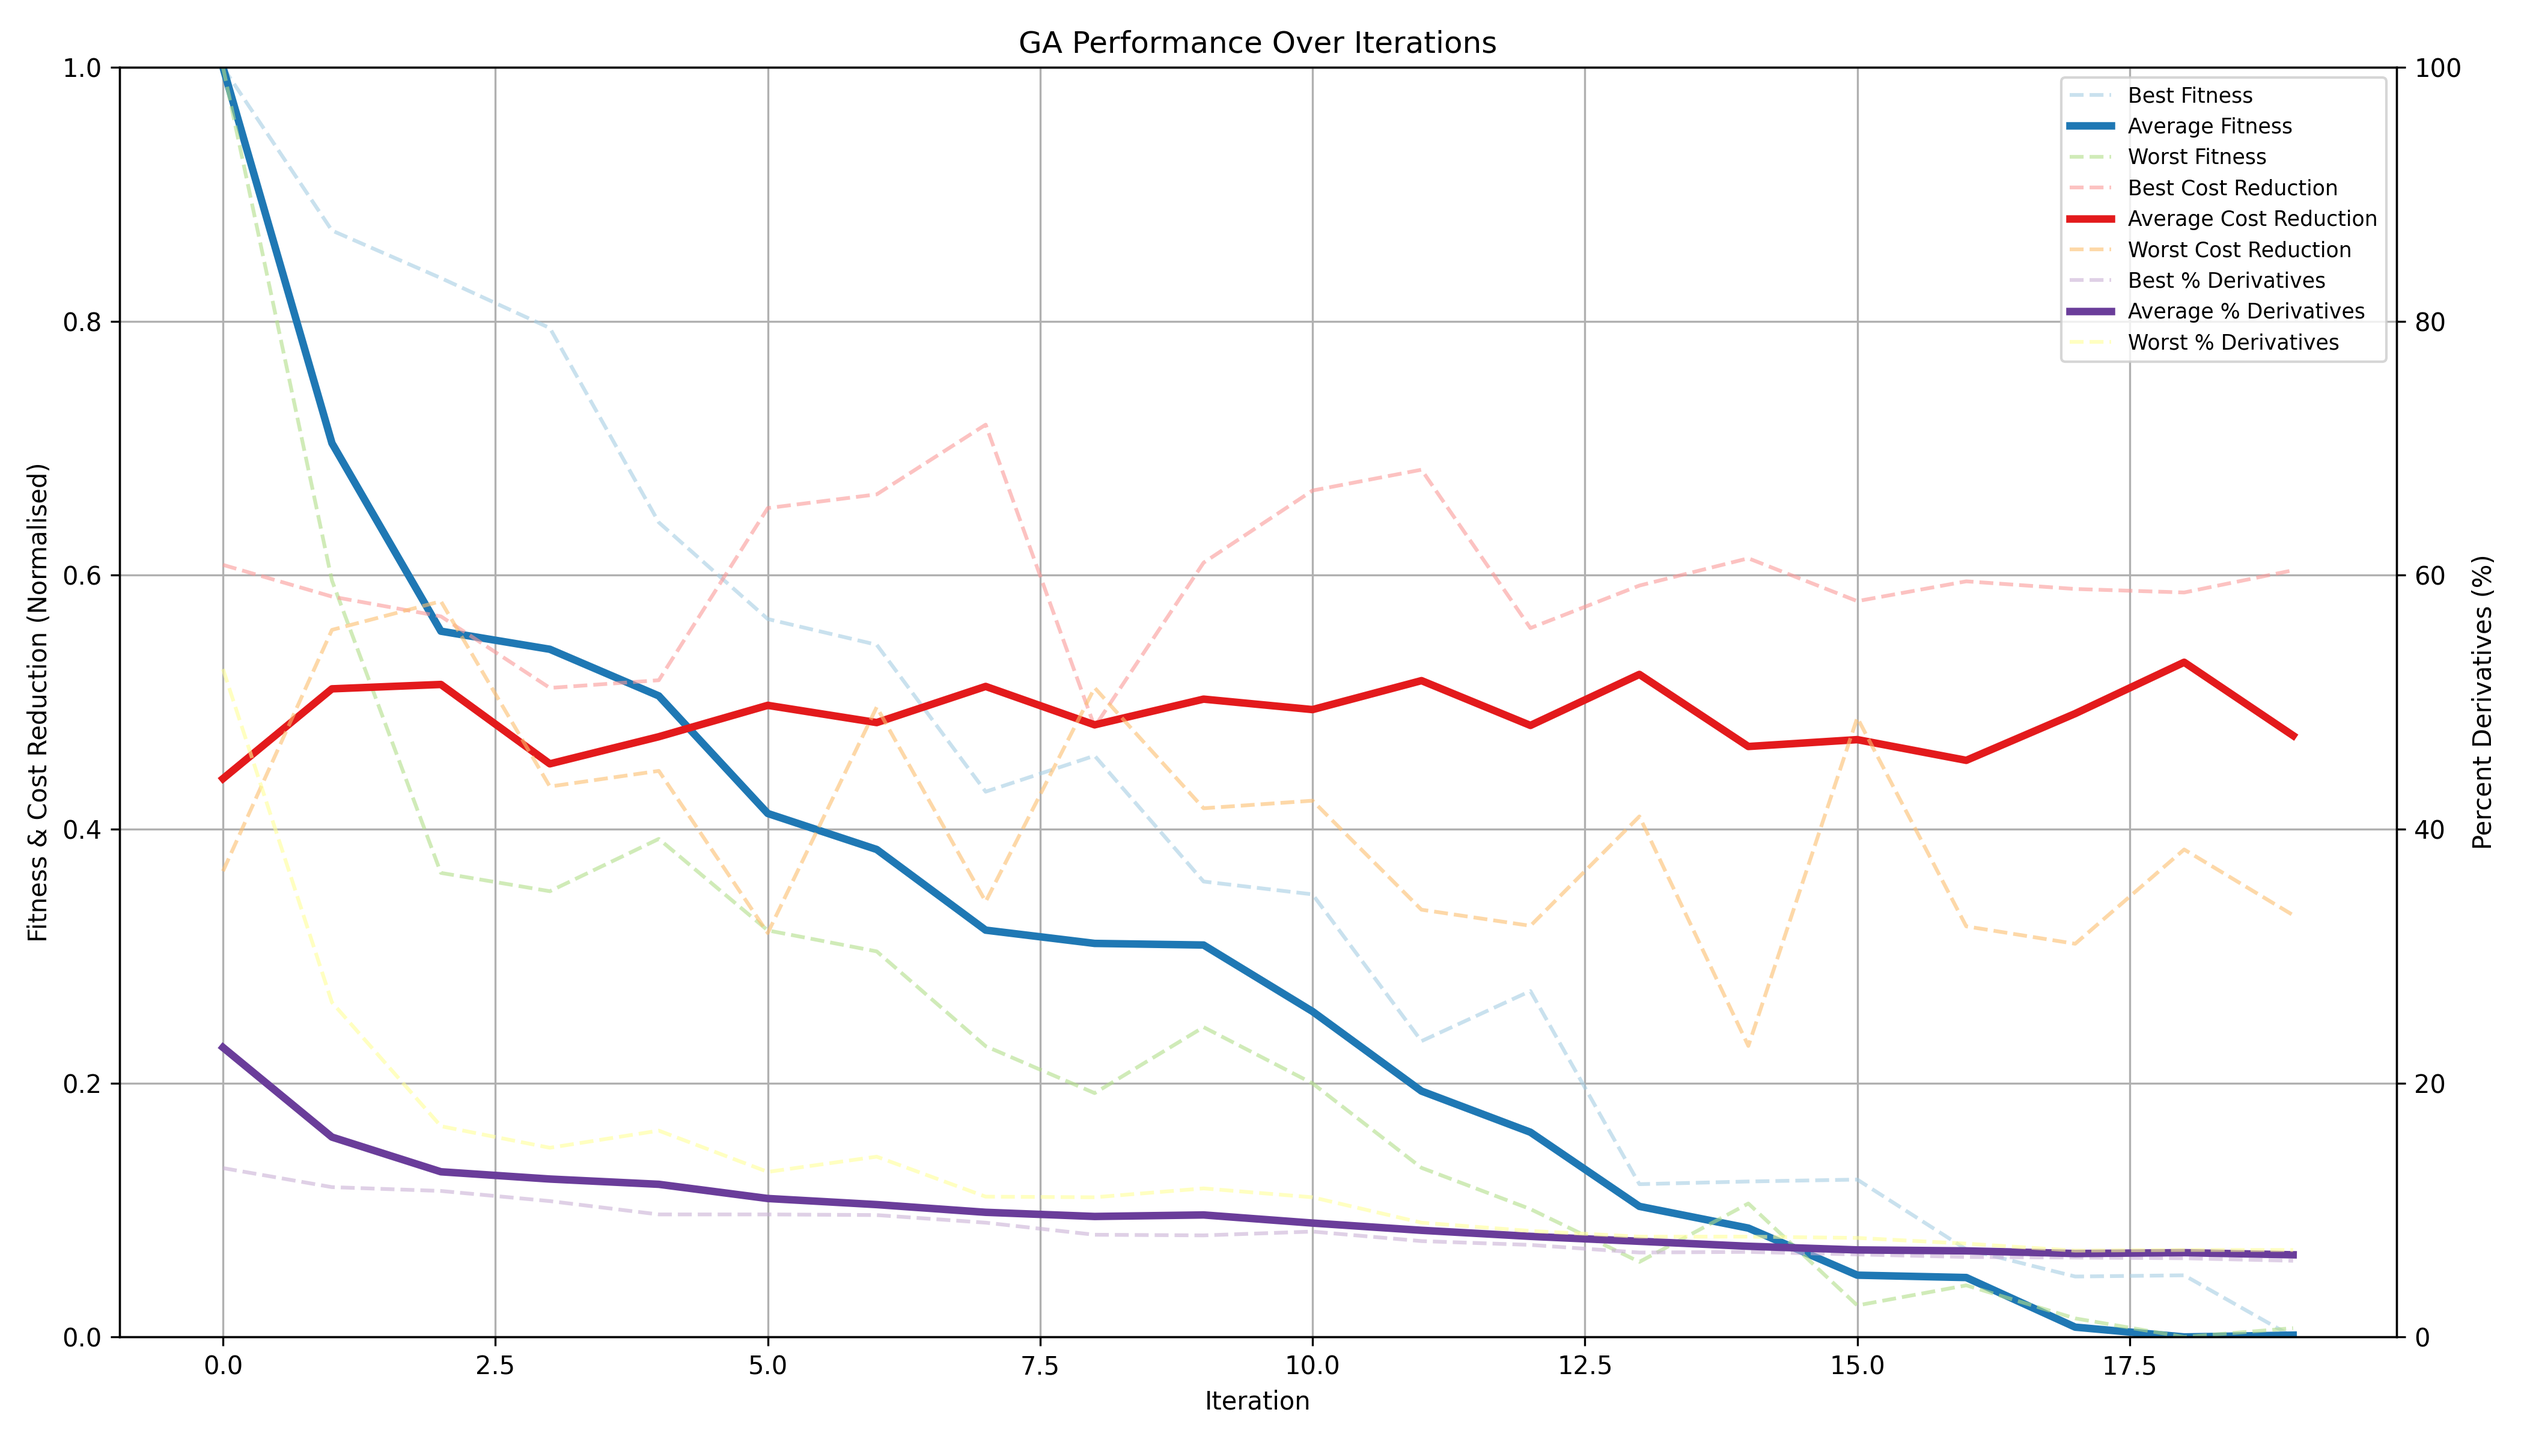
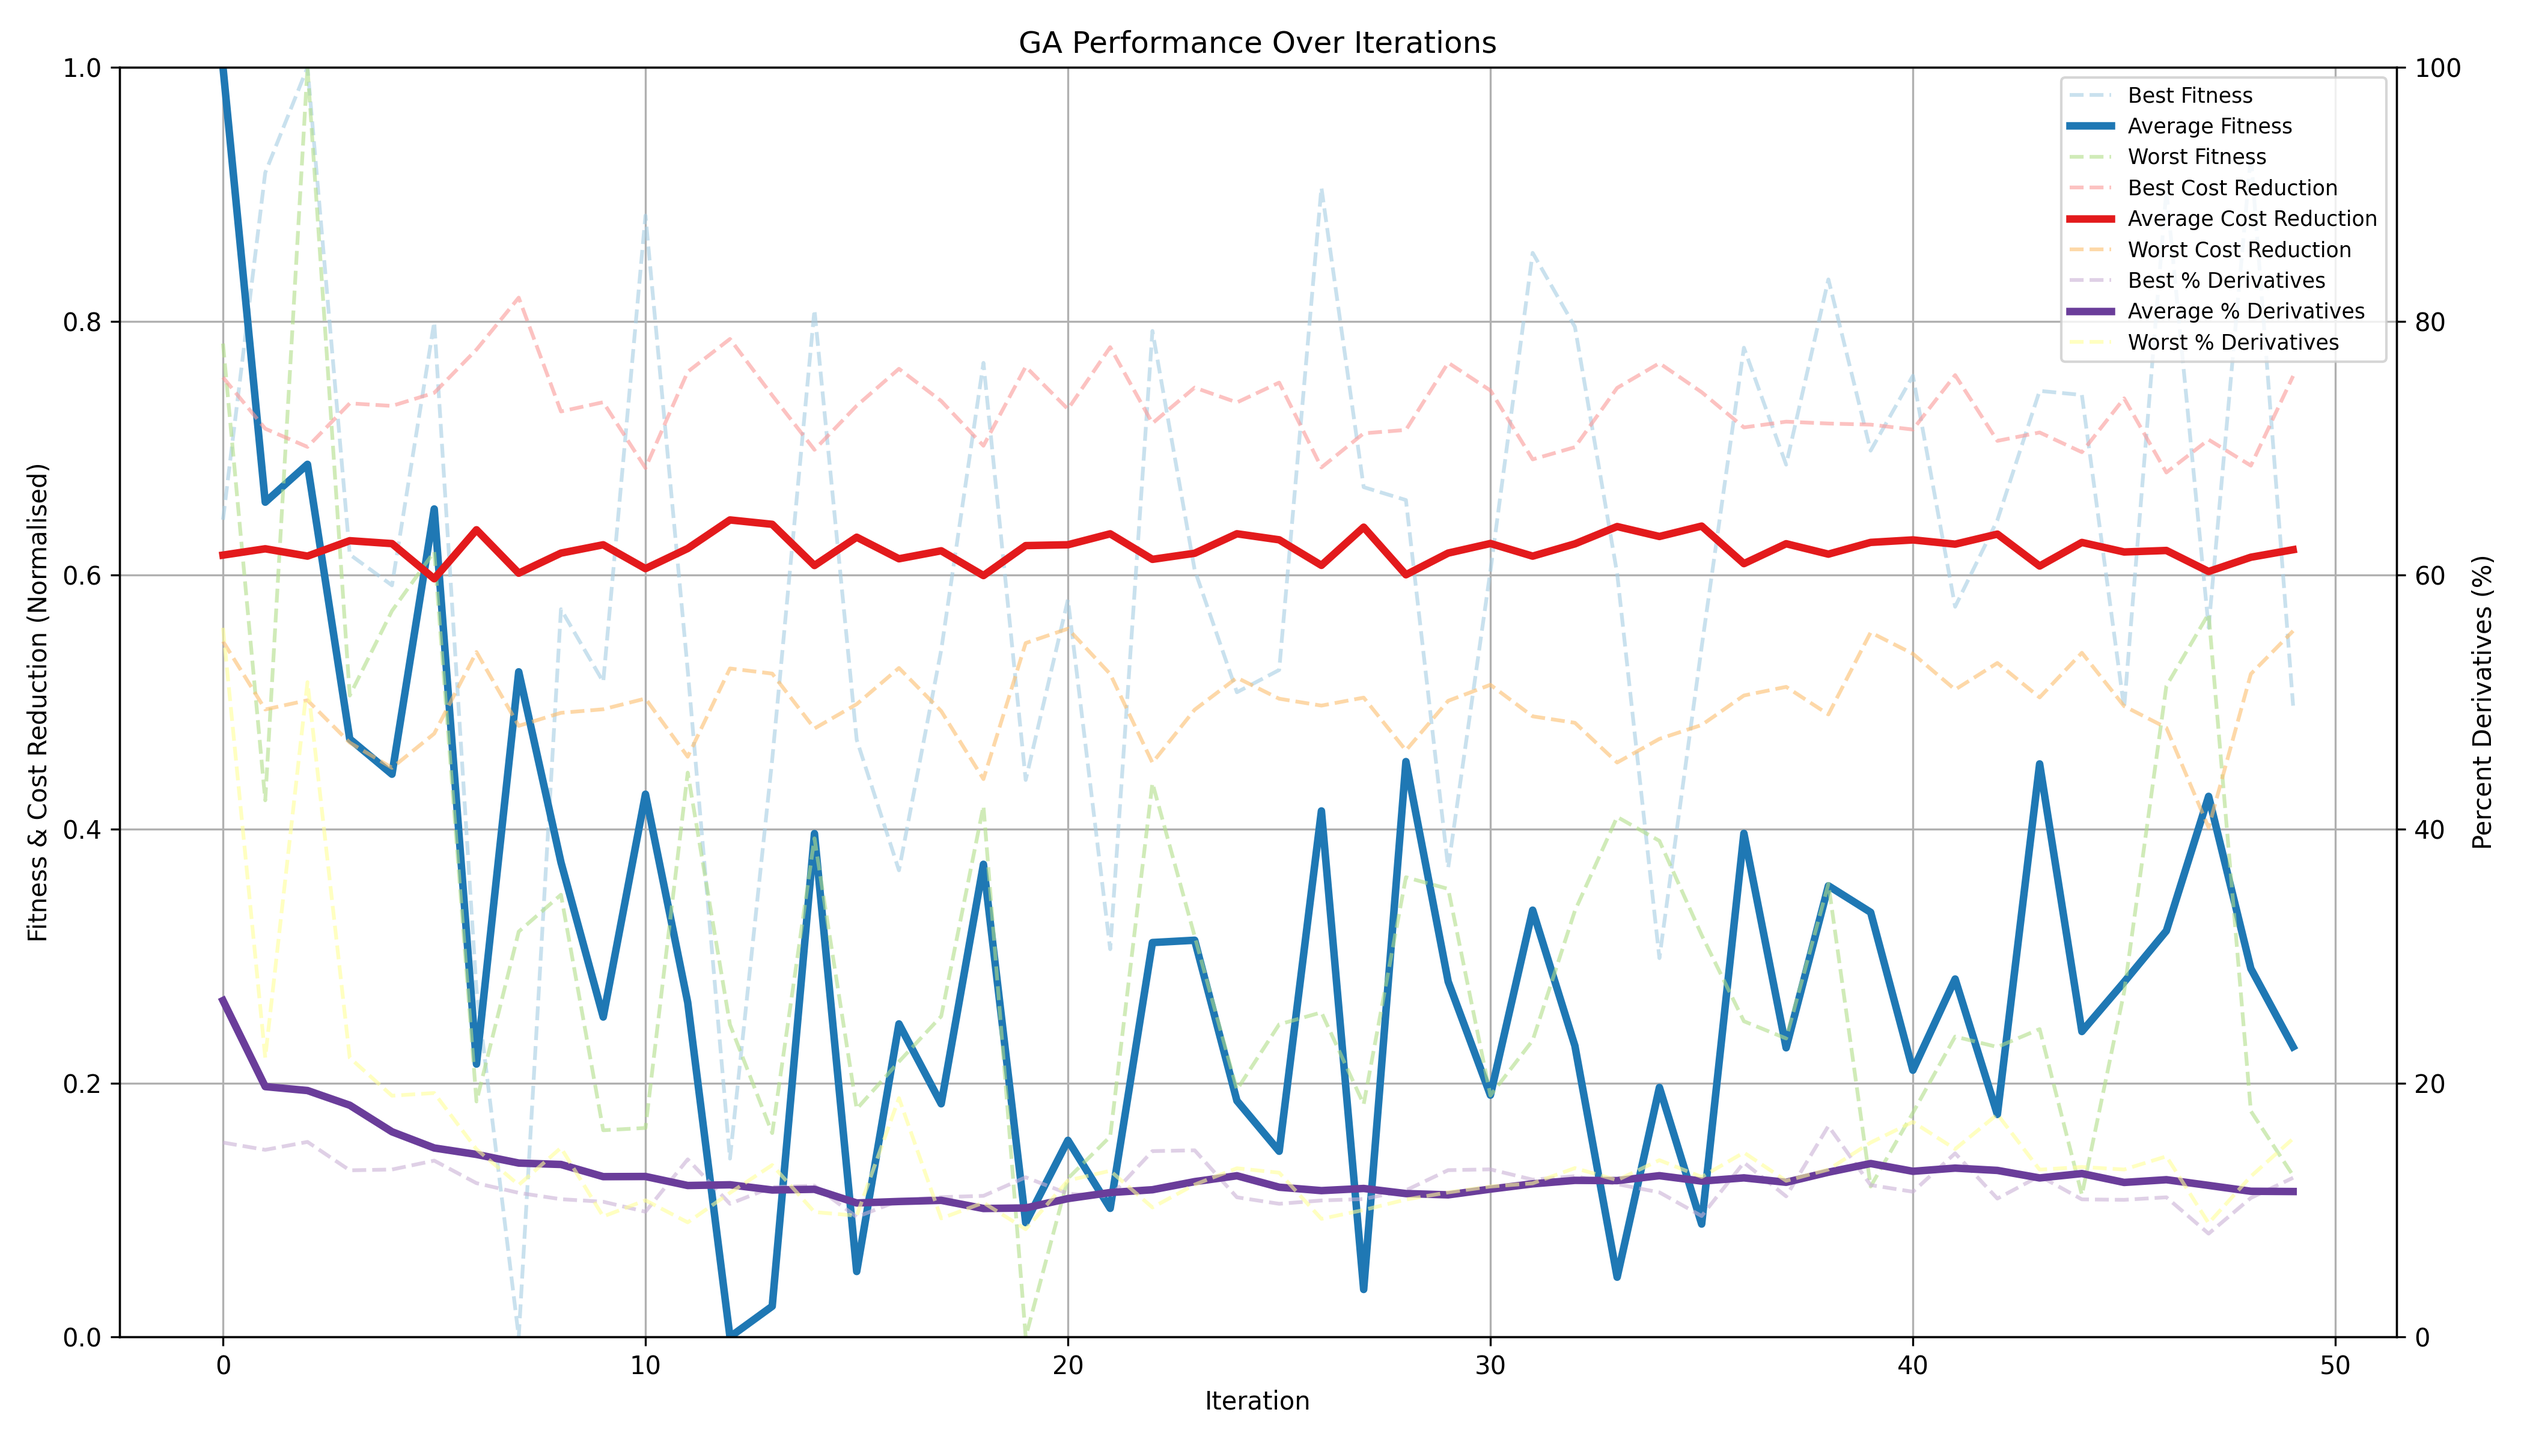
Small changes to GA, if anythign ive seemed to have made it worse

diff --git a/src/GAOptimalKeypoints.cpp b/src/GAOptimalKeypoints.cpp
@@ -15,16 +15,17 @@ GAOptimalKeypoints::GAOptimalKeypoints(std::shared_ptr<ModelTranslator> _model_t
 
 int GAOptimalKeypoints::Run(){
 
+    // Make sure population is even
+    if(population_size % 2 != 0){
+        population_size--;
+    }
+
     // Initialise data logging
     data_logging data;
 
     // Initialise Solutions
     vector<solution> solutions(population_size);
     RandomlyInitPopulation(solutions);
-
-//    vector<double> average_pop_fitness, best_pop_fitness, worst_pop_fitness;
-//    vector<double> average_pop_cost_reduction, best_pop_cost_reduction, worst_pop_cost_reduction;
-//    vector<double> average_pop_percent_derivs, best_pop_percent_derivs, worst_pop_percent_derivs;
 
     // Loop for a number of generations
     for(int i = 0; i < num_generations; i++){
@@ -67,18 +68,6 @@ int GAOptimalKeypoints::Run(){
                                         });
 
         int best_idx = std::distance(solutions.begin(), best_it);
-        // TODO enable elitism of arbritary number
-        new_solutions[0] = solutions[best_idx]; // Replace first genome with elite
-
-        // Add random survivors - Better for exploration
-        for (int k = 1; k < explorer_count+1; ++k) {
-            int idx = rand() % solutions.size();
-            new_solutions[k] = solutions[idx];
-        }
-
-        solutions = new_solutions;
-
-
 
         // ----------- Print best keypoint methods ------------------------
         keypoint_method genome_method;
@@ -92,6 +81,19 @@ int GAOptimalKeypoints::Run(){
         optimiser->keypoint_generator->SetKeypointMethod(genome_method);
         optimiser->keypoint_generator->PrintKeypointMethod();
         // -----------------------------------------------------------------
+
+
+        // TODO enable elitism of arbritary number
+        new_solutions[0] = solutions[best_idx]; // Replace first genome with elite
+
+        // Add random survivors - Better for exploration
+        for (int k = 1; k < explorer_count+1; ++k) {
+            int idx = rand() % solutions.size();
+            new_solutions[k] = solutions[idx];
+        }
+
+        solutions = std::move(new_solutions);
+//        solutions = new_solutions;
     }
 
     // ----------------------- Save data to file -------------------------------------
@@ -200,7 +202,7 @@ void GAOptimalKeypoints::UpdateDataLogging(data_logging& data, const vector<solu
 
     data.average_pop_percent_derivs.push_back(average_pd_population);
     data.best_pop_percent_derivs.push_back(average_percent_derivatives[best_idx]);
-    data.worst_pop_percent_derivs.push_back(average_percent_derivatives[best_idx]);
+    data.worst_pop_percent_derivs.push_back(average_percent_derivatives[worst_idx]);
 }
 
 void GAOptimalKeypoints::EvaluateKeypointMethodOverTasks(solution &solution){
@@ -228,12 +230,24 @@ void GAOptimalKeypoints::EvaluateKeypointMethodOverTasks(solution &solution){
         // Reset internal optimisation data and clear key-points cache
         optimiser->Reset();
         optimiser->keypoint_generator->ResetCache();
-        // Load start and desired state from csv file
+
+        // Load the task - use random function to prevent over-fitting
+        model_translator->GenerateRandomGoalAndStartState();
 
         // Load the task from CSV file
-        yamlReader->LoadTaskFromFile(model_translator->model_name,
-                                     i, model_translator->full_state_vector,
-                                     model_translator->residual_list);
+//        yamlReader->LoadTaskFromFile(model_translator->model_name,
+//                                     i, model_translator->full_state_vector,
+//                                     model_translator->residual_list);
+
+//        std::cout << model_translator->full_state_vector.robots[0].start_pos[0] << ", ";
+//        std::cout << model_translator->full_state_vector.robots[0].start_pos[1] << ", ";
+//        std::cout << std::endl;
+//        std::cout << model_translator->residual_list[0].target[0] << ", ";
+//        std::cout << model_translator->residual_list[1].target[0] << ", ";
+//        std::cout << model_translator->residual_list[2].target[0] << ", ";
+//        std::cout << model_translator->residual_list[3].target[0] << ", ";
+//        std::cout << model_translator->residual_list[4].target[0] << ", ";
+//        std::cout << std::endl;
 
         // Reset state vector (only really applicable for iLQR_SVR method)
         model_translator->ResetSVR();
@@ -273,7 +287,7 @@ void GAOptimalKeypoints::EvaluateKeypointMethodOverTasks(solution &solution){
         // Do the optimisation!
         optimiser->lambda = 0.01;
         std::vector<MatrixXd> optimised_controls = optimiser->Optimise(
-                model_translator->MuJoCo_helper->saved_systems_state_list[0], init_opt_controls, 1, 1,
+                model_translator->MuJoCo_helper->saved_systems_state_list[0], init_opt_controls, 2, 2,
                 task_horizon);
 
         solution.cost_reductions[i] = optimiser->cost_reduction;
@@ -386,7 +400,8 @@ void GAOptimalKeypoints::EvaluateSolutionCost(solution &solutions) {
         double cost_term = cost_fitness_scalar * (1.0 /(solutions.cost_reductions[i] + 1));
 
         // Penalise high derivative usage (log scale as closer to zero the better)
-        double deriv_term = derivatives_fitness_scalar * std::log(1.0 + (solutions.percentage_derivatives[i]));
+        double deriv_term = derivatives_fitness_scalar * std::log(1.0 + (solutions.percentage_derivatives[i]/100));
+//        double deriv_term = derivatives_fitness_scalar * (solutions.percentage_derivatives[i] / 100);
 
         double task_fitness = cost_term + deriv_term;
         fitness += task_fitness;

diff --git a/include/GAOptimalKeypoints.h b/include/GAOptimalKeypoints.h
@@ -57,11 +57,11 @@ private:
     std::shared_ptr<Optimiser> optimiser;
     int genome_size;
 
-    double cost_fitness_scalar = 1;
+    double cost_fitness_scalar = 4;
     double derivatives_fitness_scalar = 1;
-    int num_generations = 20;
-    int population_size = 20;
-    int num_tasks = 10;
+    int num_generations = 50;
+    int population_size = 30;
+    int num_tasks = 20;
     double mutate_chance = 5;
 
     int elite_count = 1;
